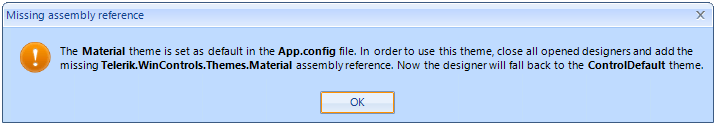
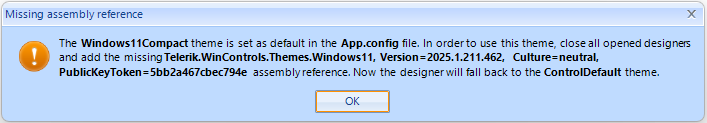
Revise and update Default theme article in docs

Changed region(s): [[0.0, 0.0, 1.0, 1.0], [0.4356, 0.7073, 0.5601, 0.9268]]

diff --git a/styling-and-appearance/default-theme.md b/styling-and-appearance/default-theme.md
@@ -10,33 +10,29 @@ position: 1
 
 # Default Theme 
 
-All RadControls from the Telerik UI for WinForms suite get the **ControlDefault** theme applied to them by default if no other theme is set. 
- 
->caption ControlDefault theme
+Telerik UI for WinForms comes with a set of built-in themes that enhance the visual appearance of the components, helping you achieve an outstanding look of your application. Each theme determines the colors, borders, backgrounds, size, layout, position, font, font size, etc of the components.
 
-![default-theme001](images/default-theme001.png)
+All RadControls from the Telerik UI for WinForms suite get the **ControlDefault** theme applied to them by default if no other theme is set. If you create a new Windows Forms App, then drag any RadControl from the Toolbox and drop it onto the form, the **ControlDefault** theme should be automatically applied.
 
-If you drag a control from the toolbox and drop it onto the form, the **ControlDefault** theme is applied as well.
-
->caption Design time - default theme
+>caption Design time - ControlDefault theme
 
 ![default-theme002](images/default-theme002.png)
 
-Using the [built-in themes]({%slug winforms/themes/using-default-themes%}) that come out of the box with the installation of the Telerik UI for WinForms suite, you can apply a different theme for the specific control. 
+
 
 ## Fluent theme as Default
 
-As of **R1 2021**, it is possible to define which theme is your **default theme** (e.g. **ControlDefault**) for the controls even at design time. This can be defined in the App.config file as follows:
+As of **R1 2021**, Telerik UI for WinForms starts using **Fluent** theme as default as it provides more modern and fresh look. If you create a new Telerik Windows Forms Application, then drag any RadControl from the Toolbox and drop it onto RadForm, the **Fluent** theme should be automatically applied .
 
+**Fluent** theme is defined in the **App.config** file as follows:
 
 ````XML
 
 <?xml version="1.0" encoding="utf-8"?>
 <configuration>
   <startup>
-    <supportedRuntime version="v4.0" sku=".NETFramework,Version=v4.5" />
+    <supportedRuntime version="v4.0" sku=".NETFramework,Version=v4.8" />
   </startup>
- 
   <appSettings>
     <add key="TelerikWinFormsThemeName" value="Fluent" />
   </appSettings>
@@ -44,53 +40,58 @@ As of **R1 2021**, it is possible to define which theme is your **default theme*
 
 ````
 
->caption Fluent theme as default
+>caption Design time - Fluent theme
 
 ![default-theme003](images/default-theme003.png)
 
 
->important The **Fluent** theme is now a part of the **Telerik.WinControls** assembly and it is statically available everywhere just like the **ControlDefault** theme. As a result, it is no longer necessary to instantiate the **FluentTheme** type.
+>note **Fluent** and **ControlDefault** themes are both included in the **Telerik.WinControls** assembly. They are available at any time, and it is not necessary to reference them explicitly in the project references.
 
->note The **Telerik.WinControls.Themes.Fluent** assembly is still available and it remains for compatibility so that existing projects don't break when they upgrade. 
-
->note The theme settings are being read upon opening the first form designer in the project. If you change the default theme in App.config, it is necessary to **close all opened designers and open them again**. 
-
-We are using the above App.config in the VS templates, so that new Telerik projects created by the Visual Studio extension have the Fluent theme set as default.
 
 ## Other Telerik theme as Default
 
-All Telerik themes are supported with the above API, it is, however, necessary that the project references the correct assembly, e.g. add reference to Telerik.WinControls.Themes.Material and in the App.config set:
+All Telerik themes that Telerik UI for WinForms offers, can be used as default theme in the application either at design time and run time. You can check other themes styles [here](https://docs.telerik.com/devtools/winforms/styling-and-appearance/themes-style).
+
+To use any Telerik theme you should follow these two steps below : 
+1. Add the relevant theme assembly to the project references. For example, if you prefer using the Windows11Compact theme in your application, you should add a reference to the **Telerik.WinControls.Themes.Windows11** in your project. You can do this by either drag-drop the theme from the Toolbox or reference it from your installation folder. 
+
+>note When you use the **UI.for.WinForms.AllControls** Telerik NuGet package, all the available themes are included in the package.
+
+2. Specify the TelerikWinFormsThemeName in the **App.config** file:
 
 ````XML
 
-<?xml version="1.0" encoding="utf-8"?>
+<?xml version="1.0" encoding="utf-8" ?>
 <configuration>
   <startup>
-    <supportedRuntime version="v4.0" sku=".NETFramework,Version=v4.5" />
+    
   </startup>
- 
   <appSettings>
-    <add key="TelerikWinFormsThemeName" value="Material" />
+    <add key="TelerikWinFormsThemeName" value="Windows11Compact" />
   </appSettings>
 </configuration>
 
 ````
 
-If the user sets a valid Telerik theme name (other than Fluent and ControlDefault) as default, but the project misses the theme assembly reference, the following message appears:
+Once, the two steps are completed, you can close and reopen the designer file again to ensure the theme is applied:
 
-![default-theme004](images/default-theme004.png)
-
-Once the necessary assembly is referred, the designer loads with the correct design:
+>caption Design time - Windows11Compact theme
 
 ![default-theme005](images/default-theme005.png)
 
->note In order to use the Theme components, just drag and drop them from the VS Toolbox to the form. This will add a reference to the corresponding theme assembly in the project and will enable the theme in the **ThemeName** drop-down of all Telerik controls on the form. 
+### Missing Assembly Reference Message
+
+If it happens that a valid Telerik theme name is used in the App.config, but the project misses the theme assembly reference, the following message will appear indicating missing assembly reference when you try to load the designer:
+
+![default-theme004](images/default-theme004.png)
+
+Theme settings are read upon opening the form designer in the project for the first time. If you change the default theme in App.config, it might be necessary to close all opened designers, then open them again to ensure the newest changes are kept in Visual Studio. 
 
 ## Custom theme as Default
 
-Since it is possible to build your own [custom style]({%slug winforms/themes/using-custom-themes%}), it is possible to specify this theme as default. We will use the same API to load client's themes defined in their own assemblies: [Creating a theme component]({%slug winforms/themes/advanced-topics/adding-custom-redistributable-themes-to-your-application-/creating-a-theme-component%}) 
+It is also possible to set a client's custom theme as default theme in an application. As we provide an apportunity for our clients to build their own [custom style]({%slug winforms/themes/using-custom-themes%}) theme, we can use the same API to load client's theme defined in their own assemblies: [Creating a theme component]({%slug winforms/themes/advanced-topics/adding-custom-redistributable-themes-to-your-application-/creating-a-theme-component%}) 
 
->note With the __2024 Q2__ version of our controls it is necessary to use the assembly fully qualified name when defining it inside the App.config.
+>note To use a custom theme as default it is necessary to use the assembly fully qualified name inside the App.config. Also, it is important to create an instance of the newly created theme. 
 
 Imagine a client creates a theme with name **LightCoral**. Besides the theme name, the App.config will also need the theme type and theme assembly name. 
 
@@ -98,16 +99,15 @@ Imagine a client creates a theme with name **LightCoral**. Besides the theme nam
 
 ````XML
 
-<?xml version="1.0" encoding="utf-8"?>
+<?xml version="1.0" encoding="utf-8" ?>
 <configuration>
   <startup>
-    <supportedRuntime version="v4.0" sku=".NETFramework,Version=v4.5" />
   </startup>
-
   <appSettings>
-    <add key="TelerikWinFormsThemeName" value="LightCoral" />
-    <add key="TelerikWinFormsThemeType" value="LightCoralClassLibrary.LightCoralTheme"/>
-    <add key="TelerikWinFormsThemeAssemblyName" value="LightCoralClassLibrary, Version=1.0.0.0, Culture=neutral, PublicKeyToken=9aa2a467bbfe794e"/>
+    <!--define the custom Windows11CompactLightBlue for the entire application-->
+    <add key="TelerikWinFormsThemeName" value="Windows11CompactLightBlue" />
+    <add key="TelerikWinFormsThemeType" value="Windows11LightBlueClassLibrary.Windows11LightBlue"/>
+    <add key="TelerikWinFormsThemeAssemblyName" value="Windows11LightBlueClassLibrary, Version=1.0.0.0, Culture=neutral, PublicKeyToken=null" />
   </appSettings>
 </configuration>
 
